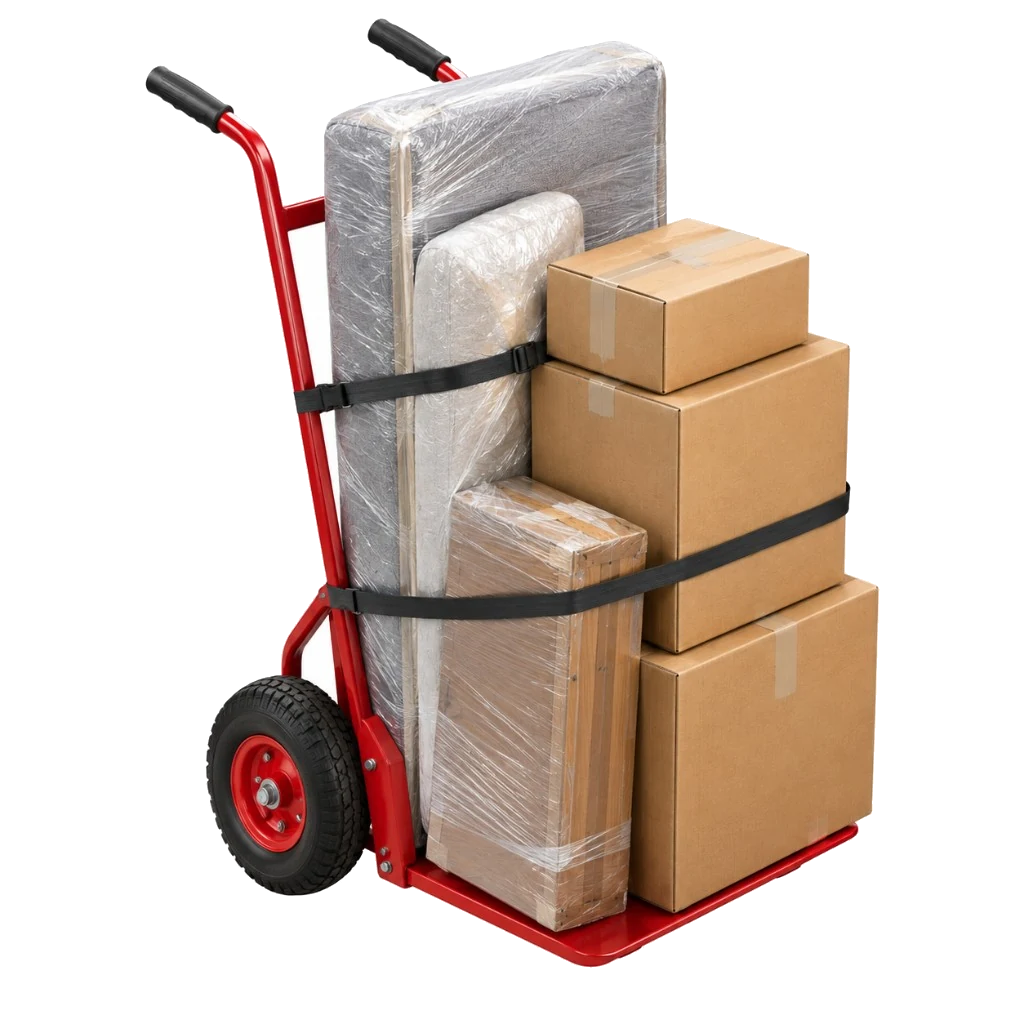
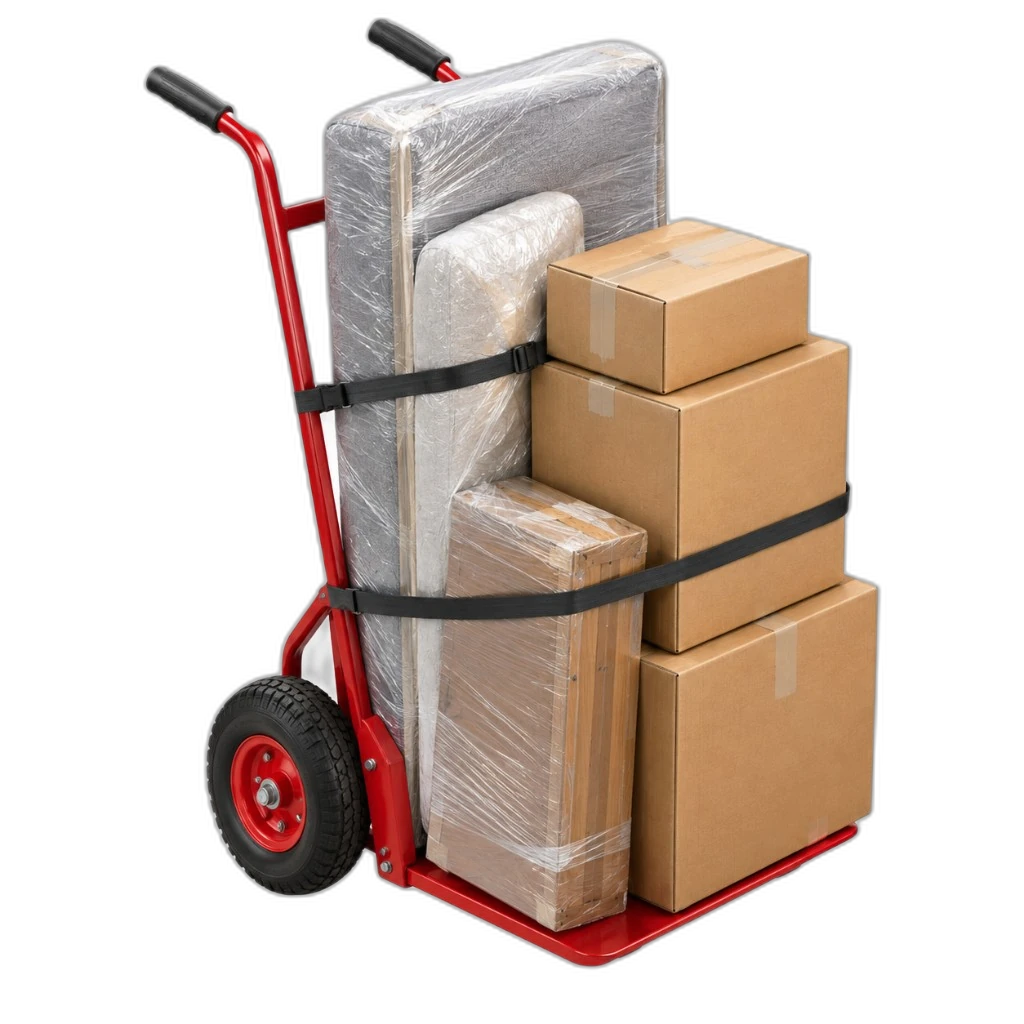
Cut service photos cleanly so no white studio backdrop remains.

diff --git a/src/components/HomeTransportOperations.tsx b/src/components/HomeTransportOperations.tsx
@@ -59,7 +59,8 @@ export function HomeTransportOperations() {
                       src={tile.image}
                       alt={title}
                       fill
-                      className="object-contain drop-shadow-[0_18px_28px_rgba(13,33,55,0.18)] transition-transform duration-500 ease-[cubic-bezier(0.22,1,0.36,1)] group-hover:scale-[1.55] group-hover:drop-shadow-[0_32px_48px_rgba(13,33,55,0.28)]"
+                      unoptimized
+                      className="bg-transparent object-contain drop-shadow-[0_18px_28px_rgba(13,33,55,0.18)] transition-transform duration-500 ease-[cubic-bezier(0.22,1,0.36,1)] group-hover:scale-[1.55] group-hover:drop-shadow-[0_32px_48px_rgba(13,33,55,0.28)]"
                       sizes="(max-width: 640px) 50vw, (max-width: 1024px) 33vw, 25vw"
                     />
                   </div>
